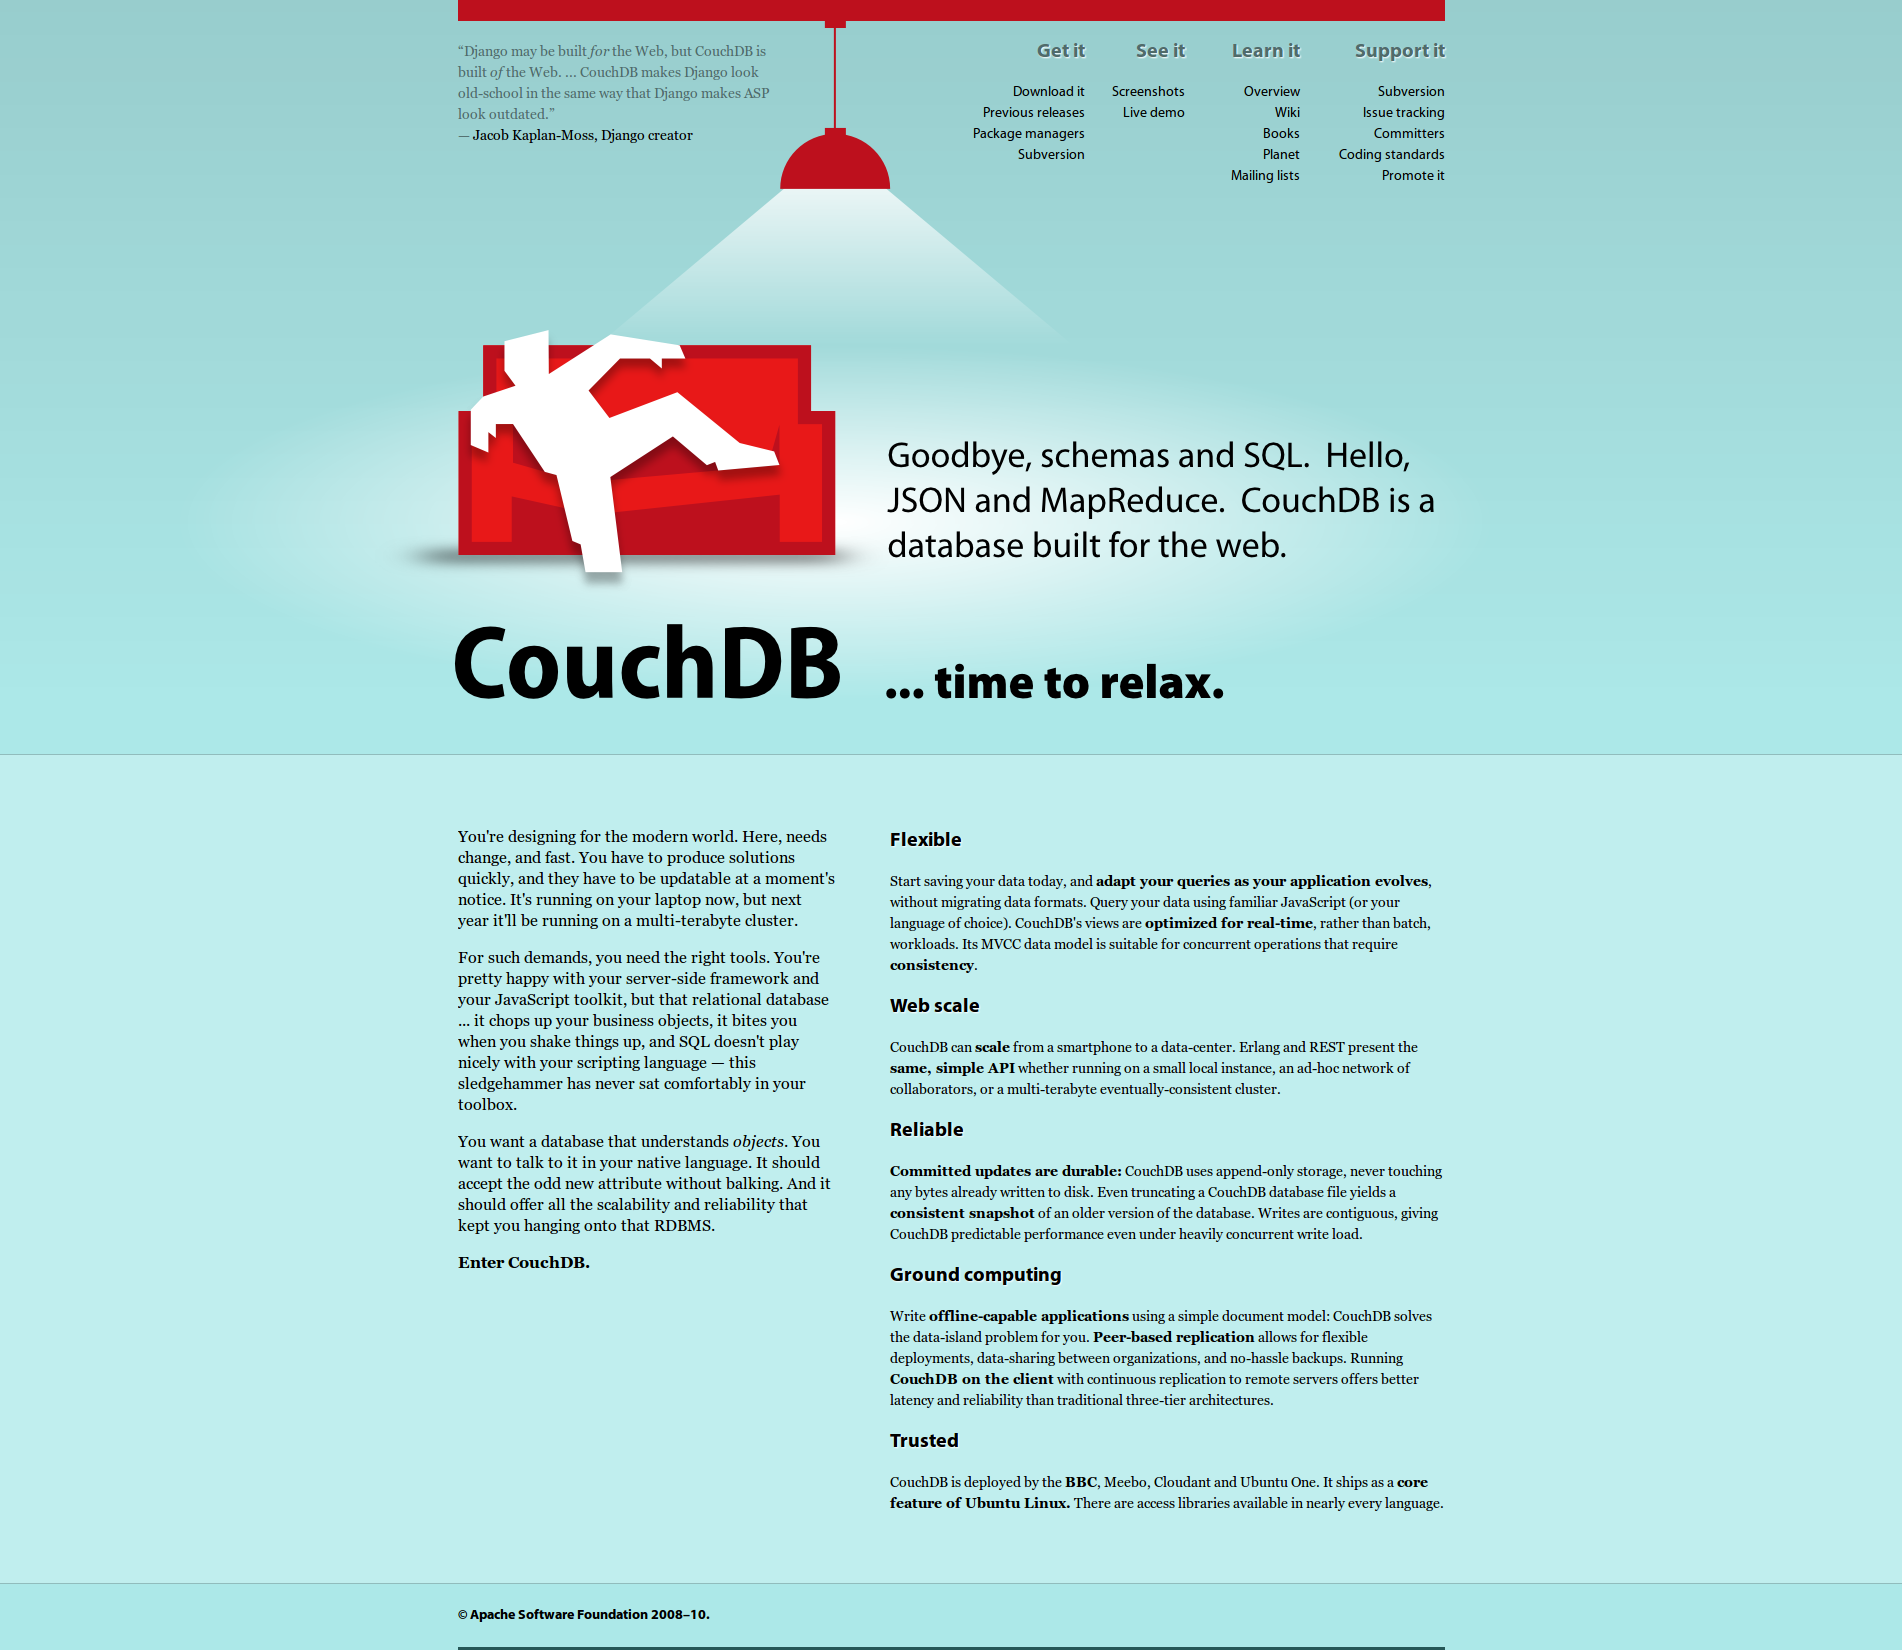
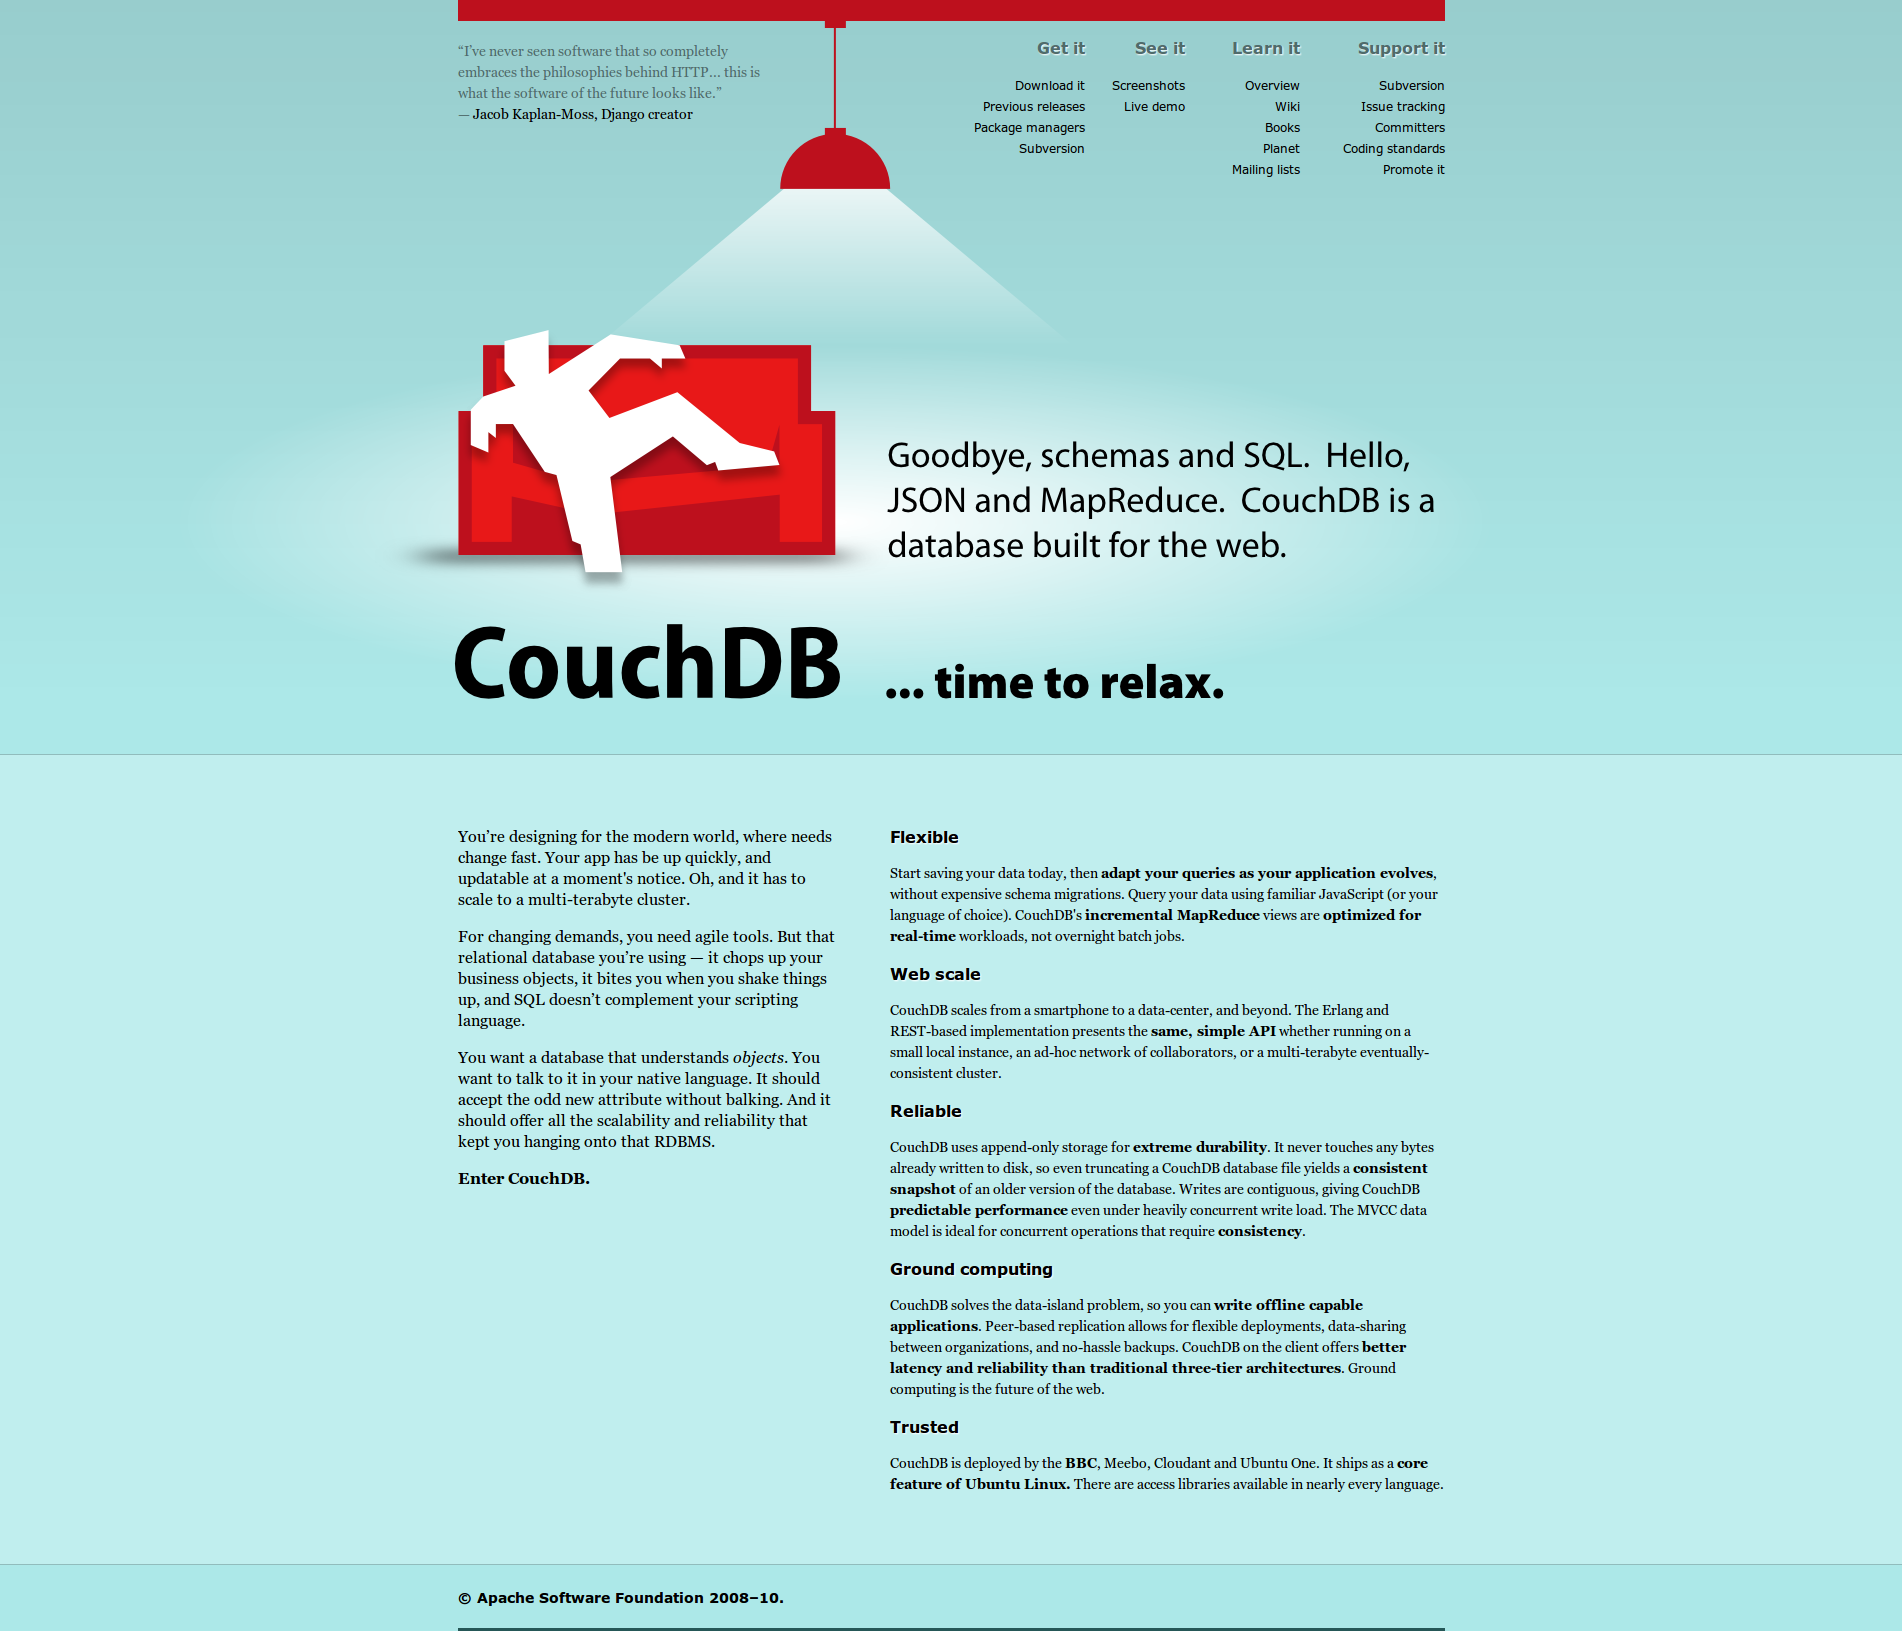
Replaced Myriad with Verdana as webfont.  Updated screenshot.

diff --git a/css/site.css b/css/site.css
@@ -16,10 +16,11 @@ div#topslice {
   padding-bottom: 55px;
   }
 h1,h2,h3,h4,h5,h6 {
-  font-family: Myriad, "Myriad Pro", Arial, sans-serif; /* CandelaBook; */
+  font-family: Verdana, sans-serif; /* CandelaBook; */
   text-shadow: white 1px 1px 1px;
+  font-size: 0.2em;
   }
-h3 { font-size: 20px; }
+h3 { font-size: 16px; }
 header {
   border: 0;
   border-top: 21px solid #bd101d;
@@ -31,7 +32,7 @@ header blockquote {
   color: #506b6b;
   }
 header nav {
-  font-family: Myriad, "Myriad Pro", Arial, sans-serif; /* CandelaBold; */
+  font-family: Verdana, sans-serif; /* CandelaBold; */
   width: 480px;
   float: right;
   color: #506b6b;
@@ -39,6 +40,7 @@ header nav {
 header nav div {
   float: left;
   width: 120px;
+  font-size: 12px;
   text-align: right;
   }
 header nav div:nth-child(2) { position: relative; left: -20px; }
@@ -56,7 +58,7 @@ header div#intro {
   padding-left: 432px;
   padding-top: 404px;
   right: 0px;
-  font-family: Myriad, "Myriad Pro", Arial, sans-serif; /* CandelaBold; */
+  font-family: Verdana, sans-serif; /* CandelaBold; */
   font-size: 32px;
   line-height: 48px;
   }
@@ -82,7 +84,7 @@ div#bottomslice {
   }
 
 footer {
-  font-family: Myriad, "Myriad Pro", Arial, sans-serif; /* CandelaBook; */
+  font-family: Verdana, sans-serif; /* CandelaBook; */
   border-bottom: 3px solid #255757;
   padding: 21px 0 21px 0;
   }
